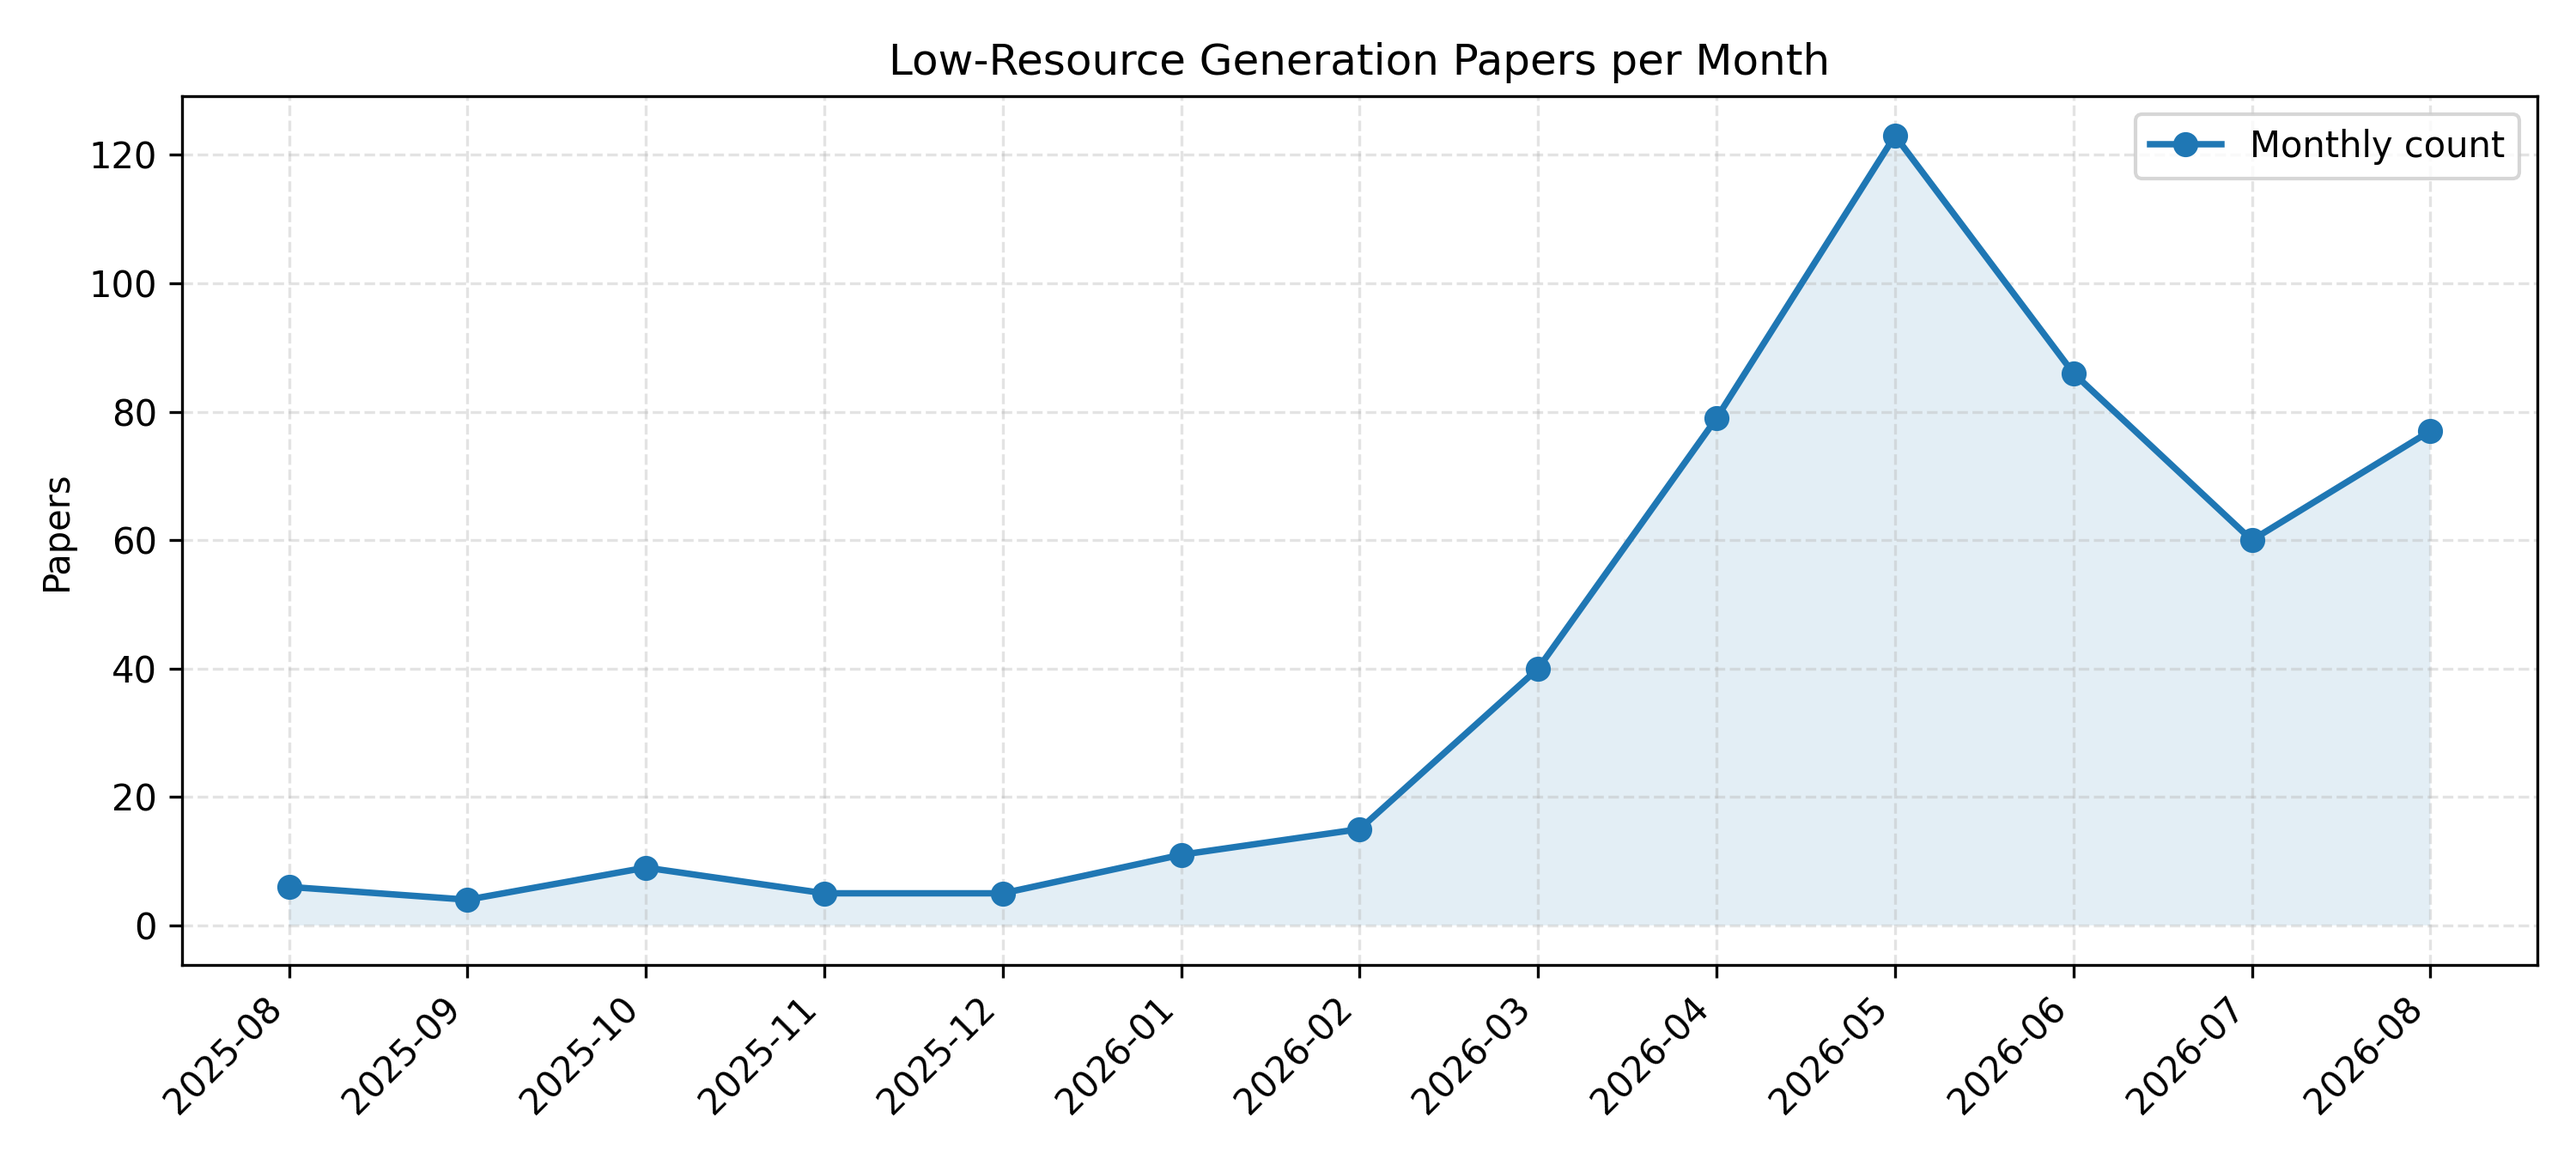
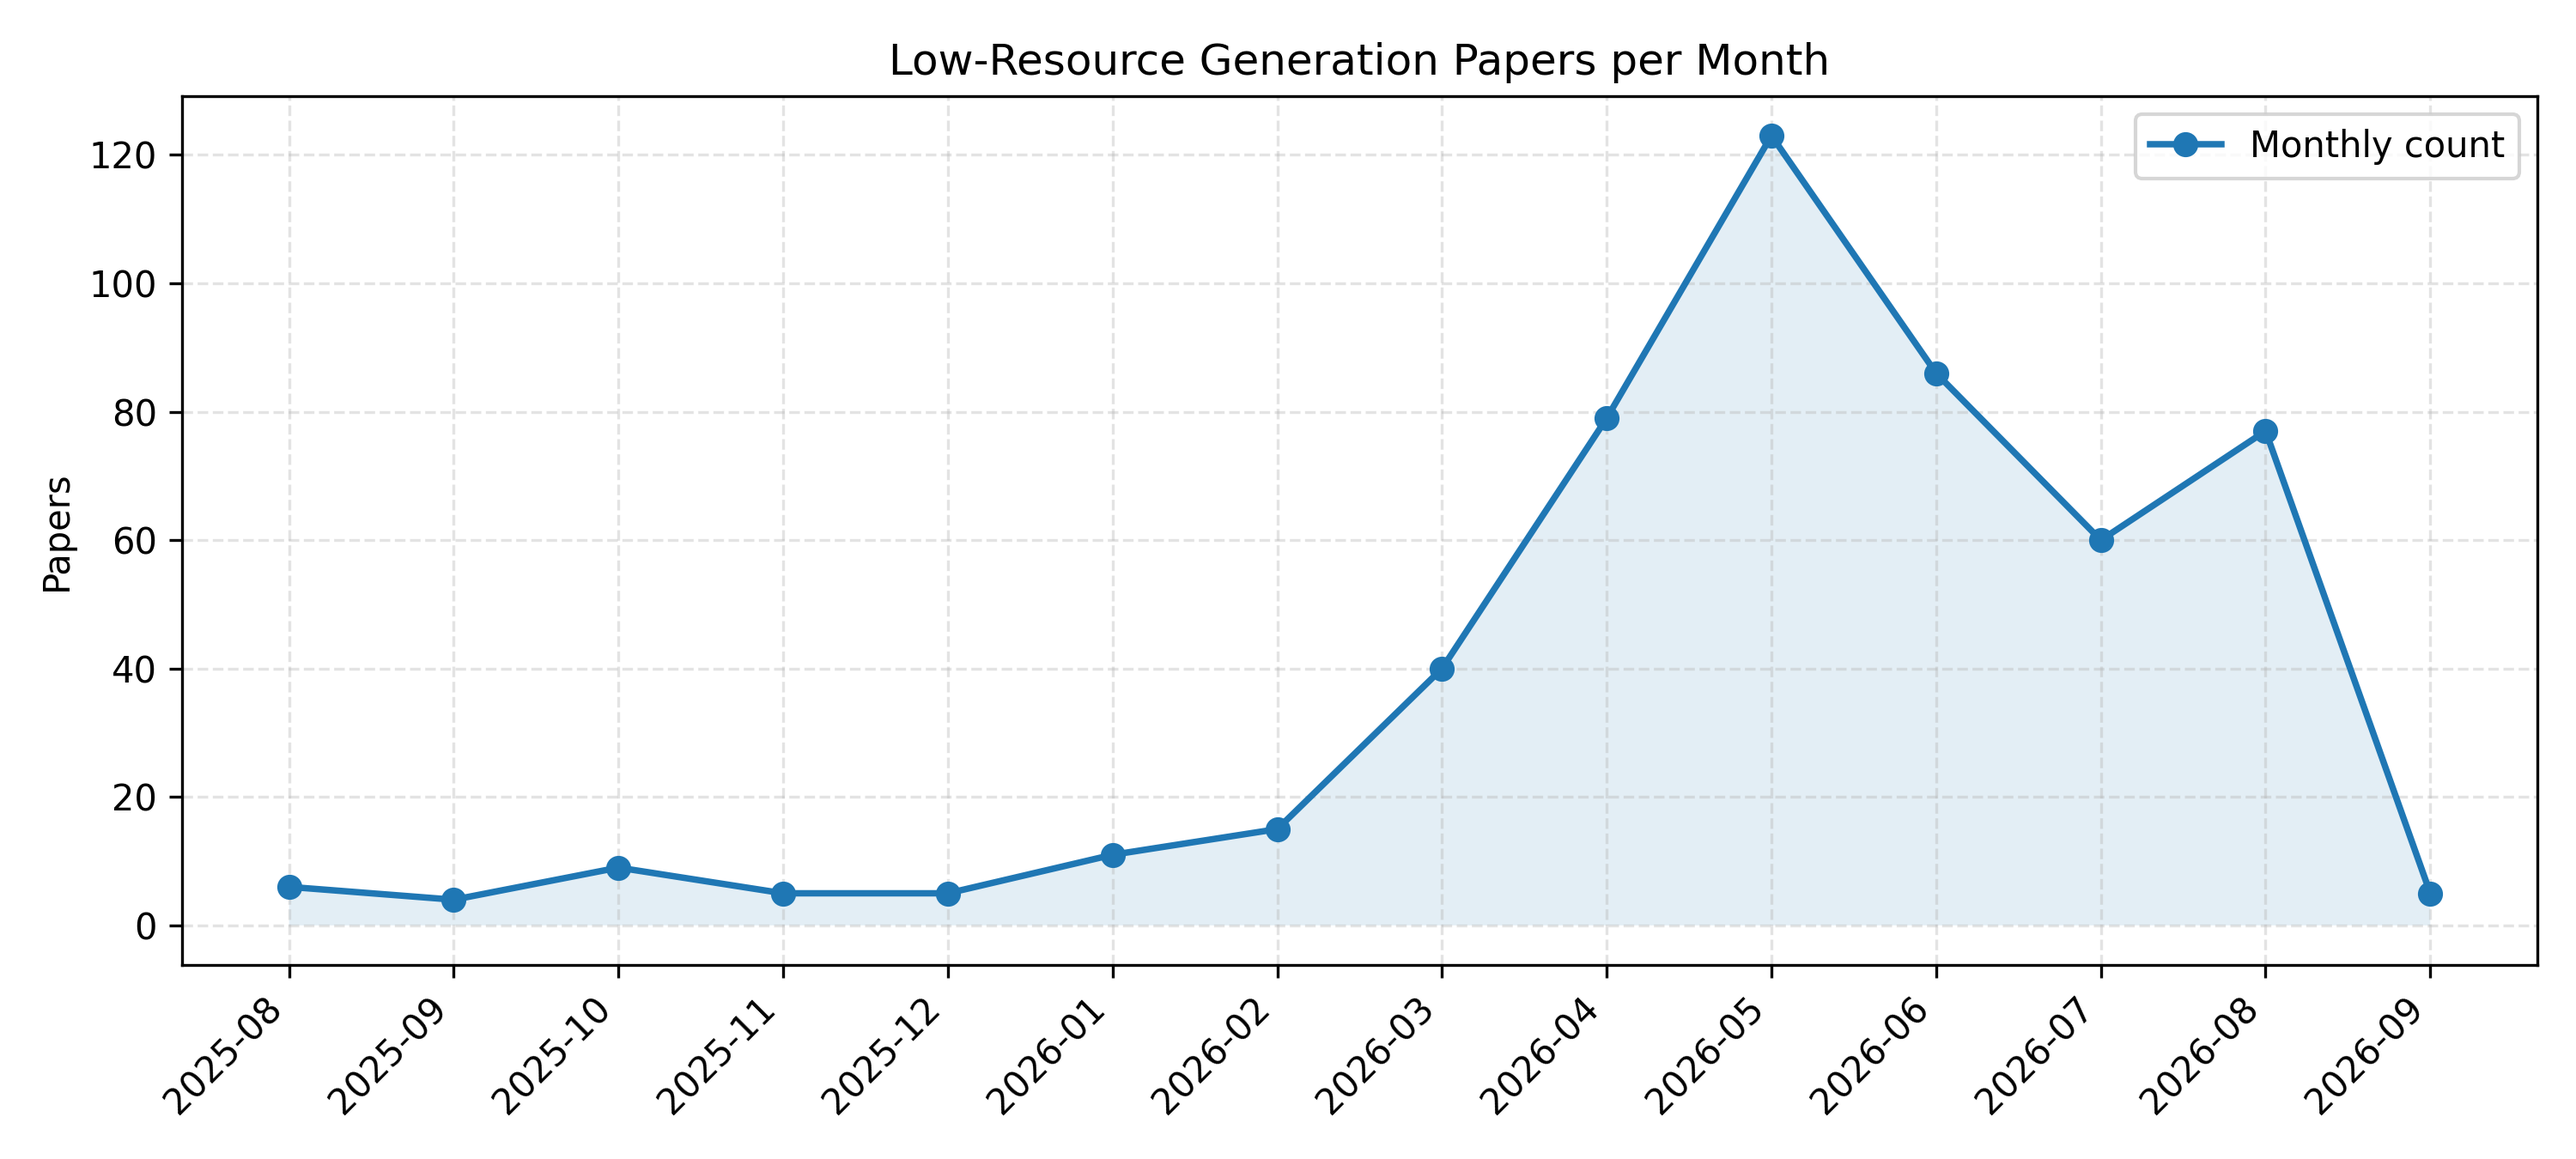
Github Action Automatic Update Low-Resource Generation Arxiv Papers

diff --git a/README.md b/README.md
@@ -13,8 +13,8 @@ This repository tracks low-resource generation related papers from arXiv.
 
 ## Summary
 
-- Total papers in JSON: **520**
-- Recent 30 days: **74**
+- Total papers in JSON: **525**
+- Recent 30 days: **79**
 - Older than 30 days: **446**
 - README display limit: **200** papers; extra papers stay in `docs/arxiv-daily.json`.
 
@@ -22,6 +22,11 @@ This repository tracks low-resource generation related papers from arXiv.
 
 |Date|Title|Categories|PDF|Code|
 |---|---|---|---|---|
+|**2026-09-01**|**Automated Event Log Generation from Unstructured Text Using Finetuned LLMs**|cs.AI|[2609.01320v1](http://arxiv.org/abs/2609.01320v1)|null|
+|**2026-09-01**|**Measuring the Behavioral Fidelity of Long-Horizon Human Activity Simulations**|cs.AI|[2609.01257v1](http://arxiv.org/abs/2609.01257v1)|null|
+|**2026-09-01**|**Text-guided flow matching enables sample-efficient crystal structure generation**|cond-mat.mtrl-sci, cs.AI|[2609.01076v1](http://arxiv.org/abs/2609.01076v1)|null|
+|**2026-09-01**|**Inspicio: Open-Vocabulary, LLM-Based Sense Retrieval for Historical Languages**|cs.CL, cs.AI|[2609.00998v1](http://arxiv.org/abs/2609.00998v1)|null|
+|**2026-09-01**|**Automated Tree Knowledge Graph Construction using Ontology Expansion and Retrieval from Vietnamese History Textbooks**|cs.AI|[2609.00763v1](http://arxiv.org/abs/2609.00763v1)|null|
 |**2026-08-31**|**Enhancing Low-Resource Language Reasoning via High-Resource Language Feature Transfer**|cs.CL, cs.AI|[2608.30462v1](http://arxiv.org/abs/2608.30462v1)|null|
 |**2026-08-31**|**Generative multi-domain transfer learning for fault detection in data-scarce wind turbines**|cs.LG|[2608.30323v1](http://arxiv.org/abs/2608.30323v1)|null|
 |**2026-08-30**|**Pak3H: Evaluating the Cost of Cultural Mismatch in LLM Alignment with a Human-Contextualized Urdu Benchmark**|cs.CL, cs.AI|[2608.30065v1](http://arxiv.org/abs/2608.30065v1)|null|
@@ -34,10 +39,10 @@ This repository tracks low-resource generation related papers from arXiv.
 |**2026-08-29**|**Toward a Cross-Lingual Romanization Ecosystem for Sinitic Languages: A Paired Mandarin-Cantonese Case Study**|cs.CL|[2608.29170v1](http://arxiv.org/abs/2608.29170v1)|null|
 |**2026-08-28**|**NL2AGBench: Benchmarking LLM Auto-Formalization for AlphaGeometry**|cs.CL, cs.AI|[2608.28481v1](http://arxiv.org/abs/2608.28481v1)|null|
 |**2026-08-28**|**CNeo-Bench: Diagnosing Large Language Models on Chinese Neologisms**|cs.CL|[2608.28053v1](http://arxiv.org/abs/2608.28053v1)|null|
-|**2026-08-27**|**pro-team at LLMs4OL 2026 Tasks Flagship and Reuse: Retrieval-Augmented Generation and Vocabulary-Constrained Filtering for Ontology Learning**|cs.AI|[2608.27101v1](http://arxiv.org/abs/2608.27101v1)|null|
+|**2026-08-27**|**pro-team at LLMs4OL 2026 Tasks Flagship and Reuse: Retrieval-Augmented Generation and Vocabulary-Constrained Filtering for Ontology Learning**|cs.AI|[2608.27101v2](http://arxiv.org/abs/2608.27101v2)|null|
 |**2026-08-26**|**Cross-lingual Representation Learning via Centroid Intervention Fusion**|cs.CL|[2608.26357v1](http://arxiv.org/abs/2608.26357v1)|**[code](https://github.com/VRCMF/CIF.git)**|
 |**2026-08-26**|**PhaseShift: Topology-Aware Data Harmonization and Model Consolidation Across Signalized Intersections**|cs.AI, cs.RO|[2608.25275v1](http://arxiv.org/abs/2608.25275v1)|null|
-|**2026-08-25**|**Padamitra: Grounded Glossary Generation for Classical Sanskrit**|cs.CL|[2608.25038v1](http://arxiv.org/abs/2608.25038v1)|null|
+|**2026-08-25**|**Padamitra: Grounded Glossary Generation for Classical Sanskrit**|cs.CL|[2608.25038v2](http://arxiv.org/abs/2608.25038v2)|null|
 |**2026-08-25**|**Do Recipes Have Personas? Characterizing and Generating Creator Style in Attributed Procedural Graphs**|cs.AI|[2608.24369v1](http://arxiv.org/abs/2608.24369v1)|null|
 |**2026-08-25**|**PhysicsBench: A Unified Leaderboard for Generative and Predictive Models in Engineering Design and Simulation**|cs.LG, cs.CE|[2608.24056v1](http://arxiv.org/abs/2608.24056v1)|null|
 |**2026-08-24**|**StrategyBench: Evaluating Explicit Strategy Induction in Large Language Models**|cs.AI|[2608.23475v1](http://arxiv.org/abs/2608.23475v1)|**[code](https://anonymous.4open.science/r/StrategyBench-D53C)**|
@@ -222,13 +227,8 @@ This repository tracks low-resource generation related papers from arXiv.
 |**2026-06-08**|**Targeting World Models to Compromise Robot Learning Pipelines**|cs.RO, cs.AI, cs.CR|[2606.09499v1](http://arxiv.org/abs/2606.09499v1)|null|
 |**2026-06-08**|**NüshuVoice: Reviving the Voice of Endangered Nüshu with Pitch-Aware Text-to-Speech**|cs.CL|[2606.09295v1](http://arxiv.org/abs/2606.09295v1)|**[code](https://anonymous.4open.science/r/Nvshu-TTS-2EB6)**|
 |**2026-06-08**|**LATTEArena: An Evaluation Framework for LLM-powered Tabular Feature Engineering (Extended Version)**|cs.AI|[2606.09004v1](http://arxiv.org/abs/2606.09004v1)|null|
-|**2026-06-07**|**PIPE-Cypher: Automatic Enterprise Benchmark Generation for Text-to-Cypher Systems**|cs.LG, cs.AI, cs.DB, cs.SE|[2606.08481v1](http://arxiv.org/abs/2606.08481v1)|null|
-|**2026-06-06**|**ZAS-SQL: Distilling Rules from Failures for Zero-Shot Text-to-SQL**|cs.CL|[2606.08245v1](http://arxiv.org/abs/2606.08245v1)|null|
-|**2026-06-06**|**De novo molecular generation with optical property preconditioning at the token level**|cs.LG|[2606.08221v1](http://arxiv.org/abs/2606.08221v1)|null|
-|**2026-06-05**|**The ACUTE Protocol: Operationalizing Language Model Activations for Better Calibration, Utility, and Trust**|cs.CL, cs.AI, cs.LG|[2606.07822v2](http://arxiv.org/abs/2606.07822v2)|null|
-|**2026-06-05**|**Automatic Extraction of Structured Information from Brain MRI Reports Using an Open-Weight Large Language Model**|cs.AI|[2606.07721v1](http://arxiv.org/abs/2606.07721v1)|null|
 
-README omitted **320** older paper(s). See `docs/arxiv-daily.json` for the full archive.
+README omitted **325** older paper(s). See `docs/arxiv-daily.json` for the full archive.
 
 [contributors-shield]: https://img.shields.io/github/contributors/bansky-cl/low-resource-generation-arxiv-daily-paper.svg?style=for-the-badge
 [contributors-url]: https://github.com/bansky-cl/low-resource-generation-arxiv-daily-paper/graphs/contributors
